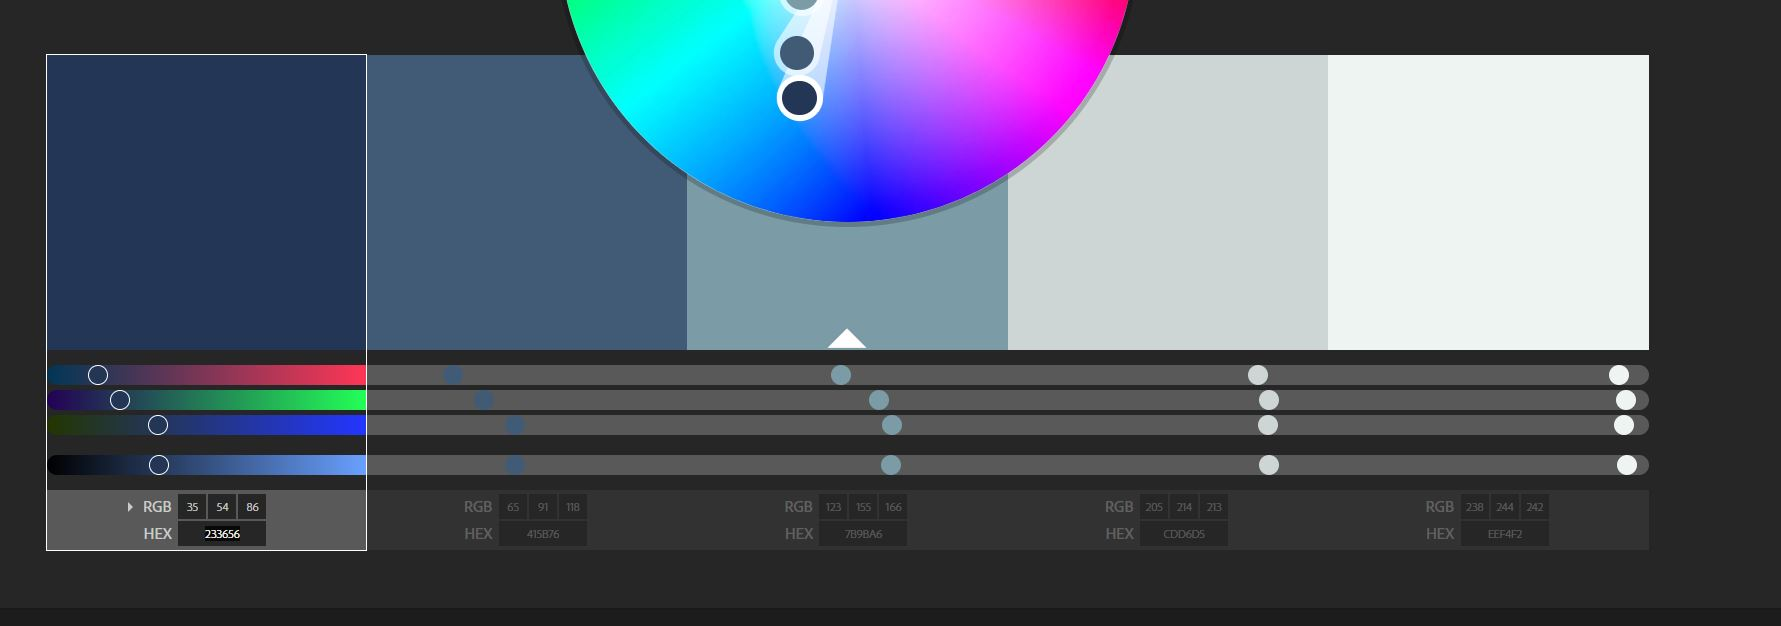
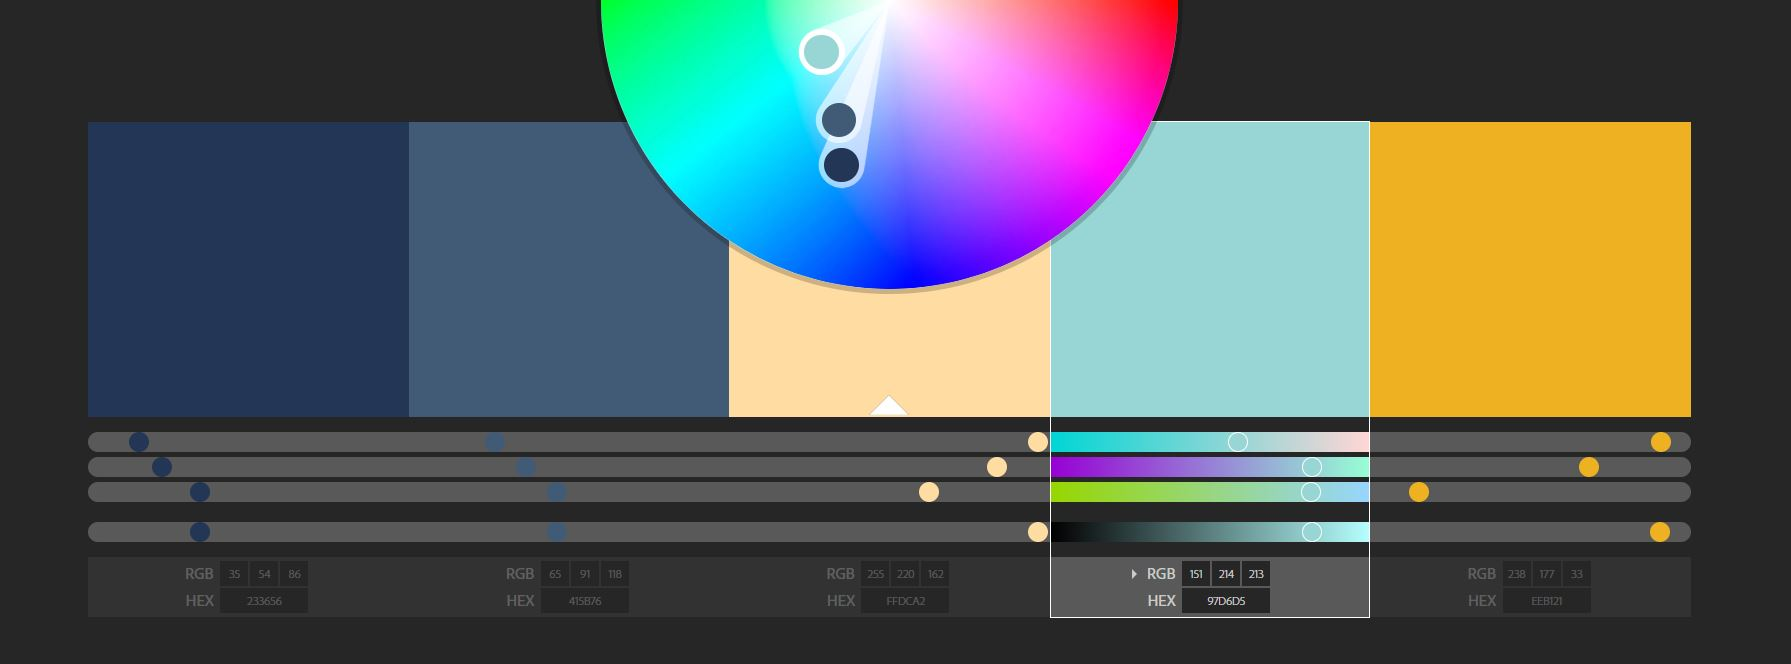
Style up front end.

diff --git a/public/stylesheets/style.css b/public/stylesheets/style.css
@@ -23,7 +23,7 @@ a {
 }
 
 .header {
-  background: #a3f5e7;
+  background: #97D6D5;
 }
 .navbar {
   padding: 5px 5px 5px 5px;
@@ -115,17 +115,36 @@ a {
   max-height: 400px;
 }
 
+.feedback-form {
+
+}
+
+.feedback-form p {
+  margin: 0;
+}
+
 .feedback-popup {
   position: absolute;
   right: 20px;
   bottom: 20px;
   width: 80px;
   height: 80px;
-  background: #EEB121;
+  /* background-color: #97d6d5; */
   text-align: center;
-  padding: 16px 5px 5px 5px;
+  padding: 0;
   font-size: 8px;
   position: fixed !important;
+  background-image: url('/images/generic/pict_survey.png');
+  background-size:contain;
+}
+
+
+.feedback-popup .button {
+  margin: 0;
+  padding: 0;
+  width: 100%;
+  height: 100%;
+  background: transparent;
 }
 
 .menu-item a {
@@ -140,14 +159,59 @@ a {
 
 .tutorial-instructions.popup {
   z-index: 2;
-  background-color: #FFDCA2;
-  padding: 13px 20px 0px 20px;
+  background-color: #97d6d5;
+  padding: 13px 20px 16px 20px;
   width: 300px;
   right: 0;
+  text-align: center;
+}
+
+.tutorial-instructions.popup.important {
+  background-color: #ffdca2;
+}
+
+.tutorial-instructions.popup.superimportant {
+  background-color: #eeb121;
+}
+
+.tutorial-instructions.popup p { 
+  margin: 0;
+}
+
+#tip1_00 {
+  left: 10%;
+  top: 300px;
+}
+
+#tip1_01 {
+  left: 16%;
+  top: 567px;
+}
+
+#tip1_02 {
+  left: 62%;
+  top: 668px;
+}
+
+#tip1_03 {
+  left: 10%;
+  top: 300px;
+}
+
+#tip1_04 {
+  left: 13%;
+  top: 457px;
+}
+
+#tip1_05 {
+  left: 20%;
+  top: 300px;
 }
 
 .autocomplete-keywords-container {
   position:relative;
+  max-width: 700px;
+  min-height: 800px;
 }
 
 ul {
@@ -156,17 +220,17 @@ ul {
 
 .menu-item a:hover,
 .menu-item a:focus {
-  color: #EE9834;
+  color: #415B76;
   padding: 21px 28px !important;
   font-size: 18px;
 }
 
 
 .top-bar ul {
-  background-color: #CDD6D5;
+  background-color: transparent;
 }
 .top-bar {
-  background-color: #CDD6D5;
+  background-color: #97D6D5;
   box-shadow: 2px -2px 18px #000000a1;
   margin-bottom: 20px;
 }
@@ -174,7 +238,7 @@ ul {
 .menu .menu-text .title {
   font-size: 20px;
   display: block;
-  color: #7B9BA6;
+  color: #fff3d9;
 }
 .menu .menu-text .subtitle {
   font-size: 18px;
@@ -187,18 +251,18 @@ ul {
 }
 
 #tip1_1 {
-  top: -87px;
-  right: 30px;
+  top: -237px;
+  right: -37%;
 }
 
 #tip1_2 {
-  top: 47px;
-  right: -180px;
+  top: -167px;
+  right: -29%;
 }
 
 #tip1_3 {
-  top: 128px;
-  right: -180px;
+  top: -479px;
+  right: -50%;
 }
 
 #tip1_4 {
@@ -207,7 +271,7 @@ ul {
 }
 
 #tip1_10 {
-  top: 217px;
+  top: 58px;
   right: -80px;
 }
 
@@ -249,7 +313,24 @@ input[type=submit] {
   top: 100%;
   left: 0;
   right: 0;
+  text-align: left;
 }
+
+.autocomplete-items .keyword-title {
+  font-size: 18px;
+  display: block;
+}
+
+.autocomplete-items small {
+  font-size: 14px;
+  color: #545454;
+  display: block;
+}
+
+.autocomplete-items .wordnet-id {
+  display: none;
+}
+
 .autocomplete-items div {
   padding: 10px;
   cursor: pointer;
@@ -299,6 +380,63 @@ input[type=submit] {
   
 }
 
+.what-are-data-for p {
+  font-size: 18px;
+}
+
+.welcome-instructions {
+  padding: 40px 0 20px 0;
+}
+
+#playAgain {
+  text-transform: uppercase;
+  padding: 30px 90px 30px 90px;
+  background-color: #EEB121;
+  border: 5px solid #EEB121;
+}
+
+#playAgain:hover,
+#playAgain:focus {
+  background-color: #fff3d9;
+}
+
+.callout.success {
+  background-color: #fff3d9;
+}
+
+.button.success
+{
+  background-color: #EEB121;
+  border: 2px solid #EEB121;
+}
+.button.success:focus,
+.button.success:hover
+{
+  background-color: #fff3d9;
+}
+
+.callout.warning {
+  background-color: #97D6D5;
+}
+
+.callout.alert {
+  background-color: #eeb121;
+}
+
+
+.what-are-data-for .t1 {
+  font-size: 21px;
+  margin-bottom: 10px;
+}
+
+.what-are-data-for .t2 {
+  font-size: 18px;
+  margin-bottom: 50px;
+}
+
+.callout {
+  /* margin: 40px auto 40px auto; */
+}
 
 
 .finished-note {
@@ -325,10 +463,73 @@ padding:  10px 10px;
 margin-bottom: 30px;
 }
 
+.autocomplete-form {
+  /* max-width: 300px; */
+  text-align: center;
+  margin:  0 auto 0 auto;
+}
 .scoreboard-result-list .result-item img {
   /* max-height: 100px; */
 }
 
 .cta-play-again-section {
   margin: 60px auto 30px auto;
+}
+
+.main-image {
+  max-width: 700px;
+  padding: 16px 0px;
+  margin-bottom: 20px;
+}
+
+#selectedKeywordsList {
+  padding: 0 0 0 20px;
+  list-style-type: decimal;
+}
+
+#selectedKeywordsList  li {
+  
+line-height: 1.6;
+  
+text-align: left;
+  
+padding-left: 20px;
+  
+font-size: 18px;
+}
+
+#selectedKeywordsList  li input {
+  display: none;
+  /* line-height: 1.2; */
+}
+
+.remove-keyword.button.alert {
+  border-radius: 50%;
+  padding: 4px;
+  font-size: 10px;
+  width: 20px;
+  height: 20px;
+  margin: 0px 2px 0px 10px;
+}
+
+.selected-keyword-container {
+  position: fixed;
+  right: 0;
+  width: 300px;
+  top: 0;
+  z-index: 0;
+  height: 100%;
+  background-color: #f1f1f1;
+  padding:  20px 20px;
+}
+
+.selected-keyword-container {
+  
+}
+.selected-keyword-container h3 {
+  text-align: center;
+  padding: 5px 0 20px 0px;
+  margin-bottom: 30px;
+  border-bottom: 2px solid #aaa;
+
 }

diff --git a/app.js b/app.js
@@ -45,6 +45,7 @@ const imageRanker = require(path.join(__dirname, 'build/Release/image_ranker.nod
 
 const a = path.join(global.rootDir, global.gConfig.pathToImages);
 const b = path.join(global.rootDir, global.gConfig.pathData2 + global.gConfig.softmaxFilename2);
+//const b = path.join(global.rootDir, global.gConfig.pathData + global.gConfig.softmaxFilename);
 const c = path.join(global.rootDir, global.gConfig.pathData2 + global.gConfig.deepFeaturesFilename2);
 const d = path.join(global.rootDir, global.gConfig.pathData2 + global.gConfig.keywordClassesFilename2);
 
@@ -62,7 +63,7 @@ if (global.gConfig.log_all == true)
 {
   console.log(global.imageRanker);
 }
-  
+
 // Push all routers into express middleware stack
 app.use('/', indexRouter);
 app.use('/users', usersRouter);
